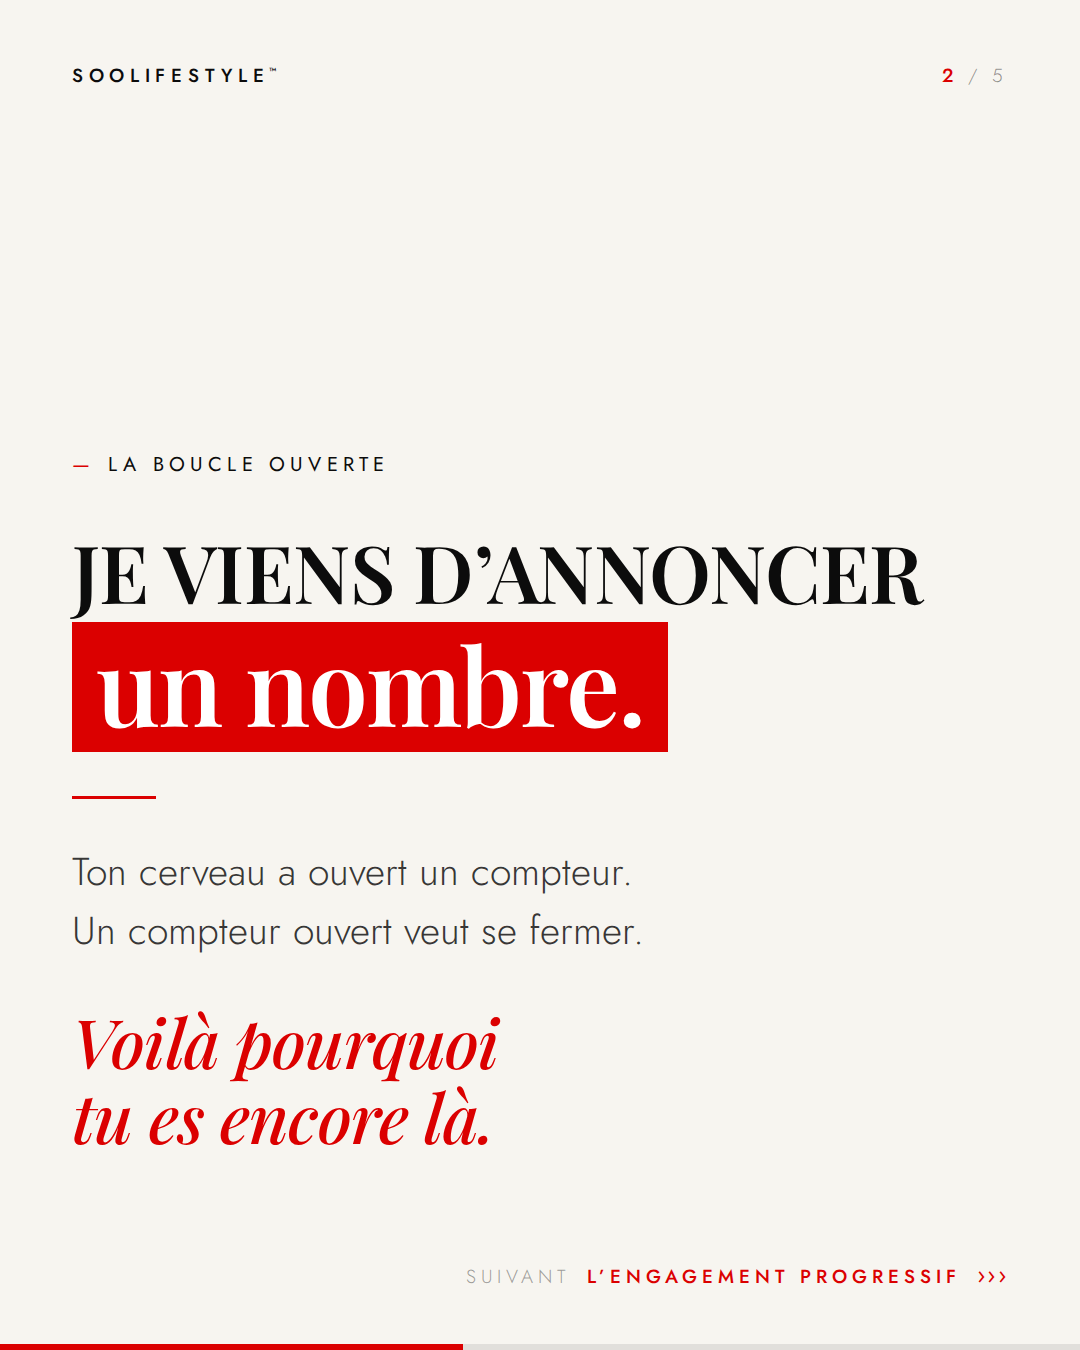
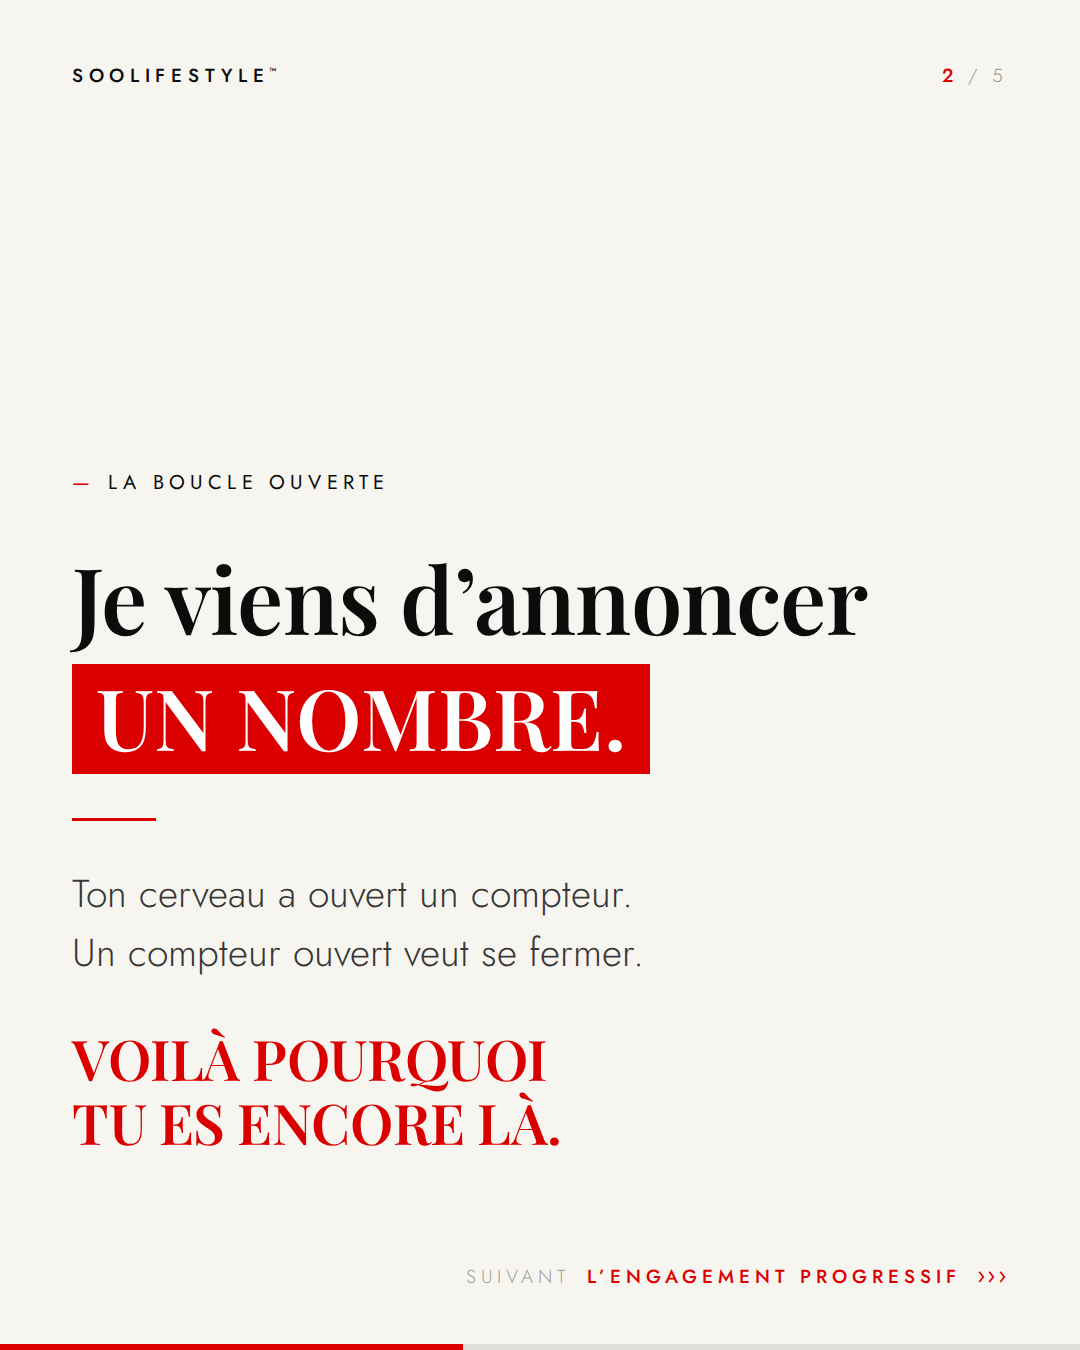
Contraste de casse inverse : minuscules pour poser, capitales pour piquer
La ligne qui pose passe en minuscules, la ligne qui pique en capitales.

Les proportions s'inversent avec la regle. Les capitales occupent toute
la hauteur de capitale sur chaque lettre : a taille egale le bloc pese
presque deux fois plus que des minuscules. On les descend donc a 0,92
fois la taille de base, au lieu de monter les minuscules a 1,34.

Les tailles de base remontent en consequence (88, 92, 96, 112, 96) :
les minuscules ont une hauteur d'x basse, il leur faut du corps.

La bascule pique, donc elle repasse en capitales rouges.

Documente la contrainte de largeur : en capitales Playfair avance
d'environ 0,58 em par signe, la ligne surlignee ne doit pas depasser
17 signes a 96 px sous peine de passer a la ligne.

Claude-Session: https://claude.ai/code/session_01NxfN7rJ7DAKtxmihPtfgqw

diff --git a/instagram/carrousel-le-miroir/da.js b/instagram/carrousel-le-miroir/da.js
@@ -94,18 +94,20 @@ const CSS = `${FONTS}
   .payoff{ font-family:'Display',Georgia,serif; font-weight:600; text-transform:uppercase;
            font-size:56px; line-height:1.14; letter-spacing:-.008em;
            color:var(--red); margin-top:44px; }
-  /* sur un mécanisme, la bascule chuchote : minuscules italiques */
-  .payoff.murmure{ text-transform:none; font-weight:500; font-style:italic;
-                   font-size:68px; line-height:1.1; letter-spacing:-.012em; }
+  /* la bascule pique, donc capitales — comme la ligne surlignée */
 
   /* ── le contraste de casse ──
         Tout en capitales, c'est un seul poids : rien ne ressort.
-        La ligne qui pose reste en capitales ; la ligne qui pique
-        passe en minuscules, plus grande pour compenser la hauteur d'x.
+        La ligne qui POSE passe en minuscules — grande, parce que la
+        hauteur d'x est basse. La ligne qui PIQUE passe en capitales :
+        chaque lettre occupe toute la hauteur, le bloc pèse deux fois
+        plus à taille égale. On la descend donc à 0,92.
         Même mot, même police, deux textures. ── */
-  .case .chip, .case .bas{ text-transform:none; font-size:1.34em; line-height:.92;
-                           display:inline-block; letter-spacing:-.018em; }
-  .case .chip{ padding:12px 24px 20px; }
+  .case{ text-transform:none; }
+  .case .chip, .case .haut{ text-transform:uppercase; font-size:.92em;
+                            display:inline-block; line-height:1;
+                            letter-spacing:.002em; }
+  .case .chip{ padding:10px 24px 16px; }
 
   /* ── l'horizon : le bloc ne flotte plus, il pose ── */
   .wrap.bas{ top:auto; bottom:196px; transform:none; }
@@ -120,12 +122,12 @@ const debordSize = (mot) => Math.min(268, Math.round(1230 / (0.6 * mot.length)))
 
 // La ligne surlignée. C'est la signature : elle est sur la couverture
 // ET sur chaque slide intérieure.
-// `hi` : la ligne surlignée. `low` : une ligne en minuscules sans surligneur.
-const chipLines = (lines, hi, chipStyle = '', low = -1) =>
+// `hi` : la ligne surlignée. `caps` : une ligne en capitales sans surligneur.
+const chipLines = (lines, hi, chipStyle = '', caps = -1) =>
   lines
     .map((l, i) => {
       if (i === hi) return `<span class="chip" style="${chipStyle}">${l}</span>`;
-      if (i === low) return `<span class="bas">${l}</span>`;
+      if (i === caps) return `<span class="haut">${l}</span>`;
       return l;
     })
     .join('<br>');

diff --git a/instagram/carrousel-le-miroir/build-carrousel.js b/instagram/carrousel-le-miroir/build-carrousel.js
@@ -31,7 +31,7 @@ const mechanism = (s, i) => `
 const outro = (o) => `
   <div class="sl dark" id="s${TOTAL}">
     <div class="wrap bas">
-      <div class="title case" style="font-size:${o.size}px">${DA.chipLines(o.lines, o.hi, '', o.low)}</div>
+      <div class="title case" style="font-size:${o.size}px">${DA.chipLines(o.lines, o.hi, '', o.caps)}</div>
       <div class="hr"></div>
       ${o.body.map((p) => `<div class="body">${p.join('<br>')}</div>`).join('')}
       <div class="payoff">${o.payoff.join('<br>')}</div>

diff --git a/instagram/carrousel-le-miroir/rythmes.js b/instagram/carrousel-le-miroir/rythmes.js
@@ -39,7 +39,7 @@ const R = {
       <div class="title case" style="font-size:${s.size}px">${DA.chipLines(s.lines, s.hi)}</div>
       <div class="hr"></div>
       ${body(s)}
-      <div class="payoff murmure">${s.payoff.join('<br>')}</div>
+      <div class="payoff">${s.payoff.join('<br>')}</div>
     </div>`,
 };
 

diff --git a/instagram/carrousel-le-miroir/SYSTEME.md b/instagram/carrousel-le-miroir/SYSTEME.md
@@ -126,24 +126,35 @@ pas une interruption.
 
 ### 3. Le contraste de casse
 
-Tout en capitales, c'est un seul poids : rien ne ressort.
+Tout dans la même casse, c'est un seul poids : rien ne ressort.
 
-**La ligne qui pose reste en capitales. La ligne qui pique passe en
-minuscules**, à 1,34 fois la taille — les minuscules ont une hauteur d'x
-plus basse, il faut les grossir pour qu'elles pèsent autant.
+**La ligne qui pose est en minuscules. La ligne qui pique est en capitales.**
 
 ```
-CETTE PHRASE          capitales, 78 px — froid, factuel
-parlait de toi.       minuscules, 104 px, surlignées — intime, ça pique
+Le dernier agit           minuscules, 96 px — ça raconte
+APRÈS TA LECTURE.         capitales, 0,92× — surlignées, ça claque
 ```
+
+Les capitales occupent toute la hauteur de capitale sur chaque lettre :
+à taille égale, le bloc pèse presque deux fois plus que des minuscules.
+On les descend donc à **0,92 fois** la taille de base — elles dominent
+quand même, et sans écraser la ligne du dessus.
 
 Même police, même ligne, deux textures. C'est le contraste le moins cher
-et le plus efficace du système : il ne coûte ni couleur, ni élément,
-ni place.
+du système : il ne coûte ni couleur, ni élément, ni place.
 
-La bascule suit la même logique : au lieu de crier en capitales rouges,
-elle chuchote en **minuscules italiques rouges**. Après une explication,
-un murmure porte plus qu'un cri.
+La bascule suit la même règle : elle pique, donc **capitales rouges**.
+
+**Attention à la largeur.** En capitales, Playfair avance d'environ
+0,58 em par signe. La ligne surlignée ne doit pas dépasser :
+
+| Taille de base | Signes max sur la ligne surlignée |
+|---|---|
+| 88 px | 19 |
+| 96 px | 17 |
+| 112 px | 15 |
+
+Au-delà, elle passe à la ligne et le surligneur devient un pavé.
 
 ### 4. Un horizon fixe
 
@@ -159,11 +170,11 @@ sans le dire. Personne ne le remarque, tout le monde le sent.
 
 ```
 — NOM DU MÉCANISME        Jost, tiret rouge, capitales espacées
-LA LIGNE QUI POSE         Playfair capitales
-la ligne qui pique        Playfair minuscules, 1,34×, surlignée en rouge
+La ligne qui pose         Playfair minuscules
+LA LIGNE QUI PIQUE        Playfair capitales, 0,92×, surlignée en rouge
 ▬                         filet rouge
 corps en Jost 300         une à trois lignes courtes
-la bascule                minuscules italiques rouges, rythme bascule seul
+LA BASCULE                capitales rouges, rythme bascule seul
                           SUIVANT · <le prochain> ›››
 ```
 
